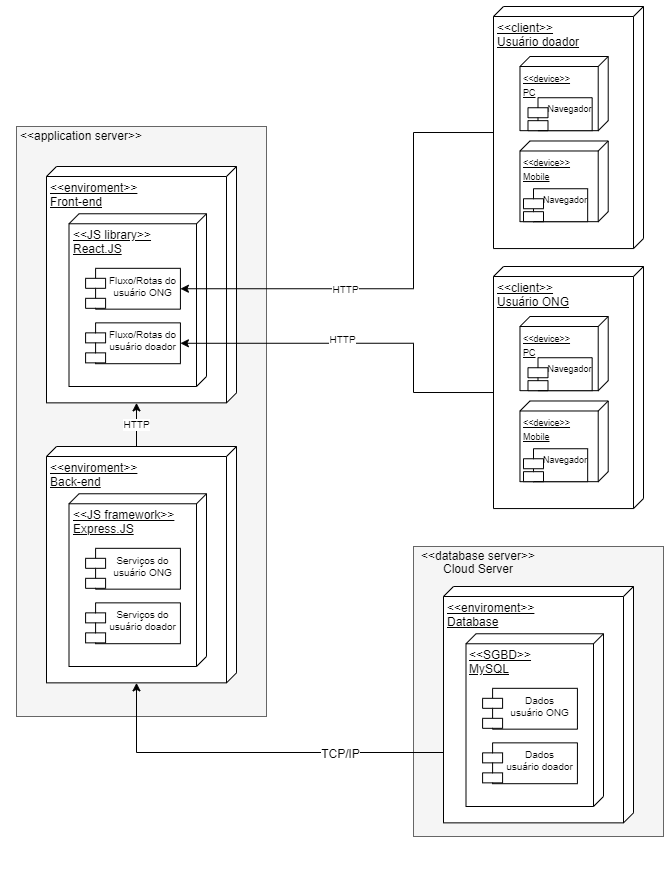
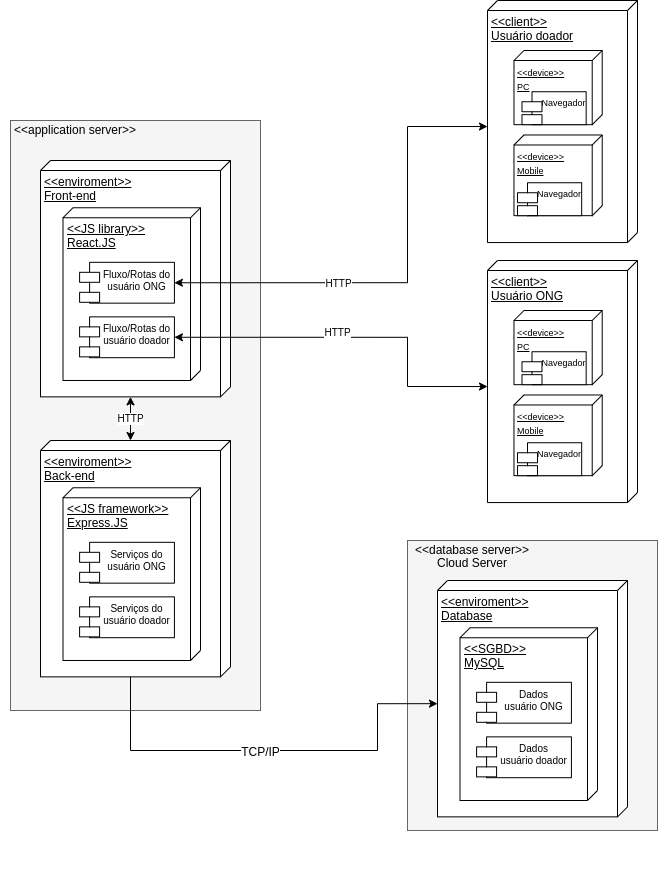
Correct Deployment Diagram

Changed region(s): [[0.0, 0.124, 0.6079, 0.868], [0.6383, 0.0, 0.9726, 0.589], [0.6079, 0.62, 1.0, 0.961]]

diff --git a/docs/Modelagem/2.1.1.UMLEstaticos.md b/docs/Modelagem/2.1.1.UMLEstaticos.md
@@ -11,6 +11,7 @@
 | 0.6    | Adicionando explicação do diagrama de Classes e alterando diagrama de classes | Yan Andrade e Felipe Agustini | 15/07/2022 |
 | 0.7    | Adicionando diagrama de componentes                                           | Isadora Soares                | 15/07/2022 |
 | 0.8    | Detalhando a criação do Diagrama de Implantação                               | Victor Buendia                | 15/07/2022 |
+| 0.9    | Aprimorando o Diagrama de Implantação                                         | Victor Buendia                | 15/07/2022 |
 
 ## 2.2.1.1. Diagrama de Classes
 

diff --git a/docs/_sidebar.md b/docs/_sidebar.md
@@ -85,6 +85,7 @@
       - [2.2.3 Papéis e reuniões na Metodologia Ágil](/Modelagem/2.2.IniciativasExtras?id=_223-papéis-e-reuniões-na-metodologia-Ágil)
       - [2.2.4 Validação do protótipo](/Modelagem/2.2.IniciativasExtras?id=_224-validação-do-protótipo)
       - [2.2.5 Roadmap](/Modelagem/2.2.IniciativasExtras?id=_225-roadmap)
+      - [2.2.6 Apêndice](/Modelagem/2.2.IniciativasExtras?id=_226-apêndice)
     - [2.3. Participações - Modelagem](/Modelagem/2.3.ParticipacoesModelagem.md)
 
 - **[M3] Padrões de Projeto**
